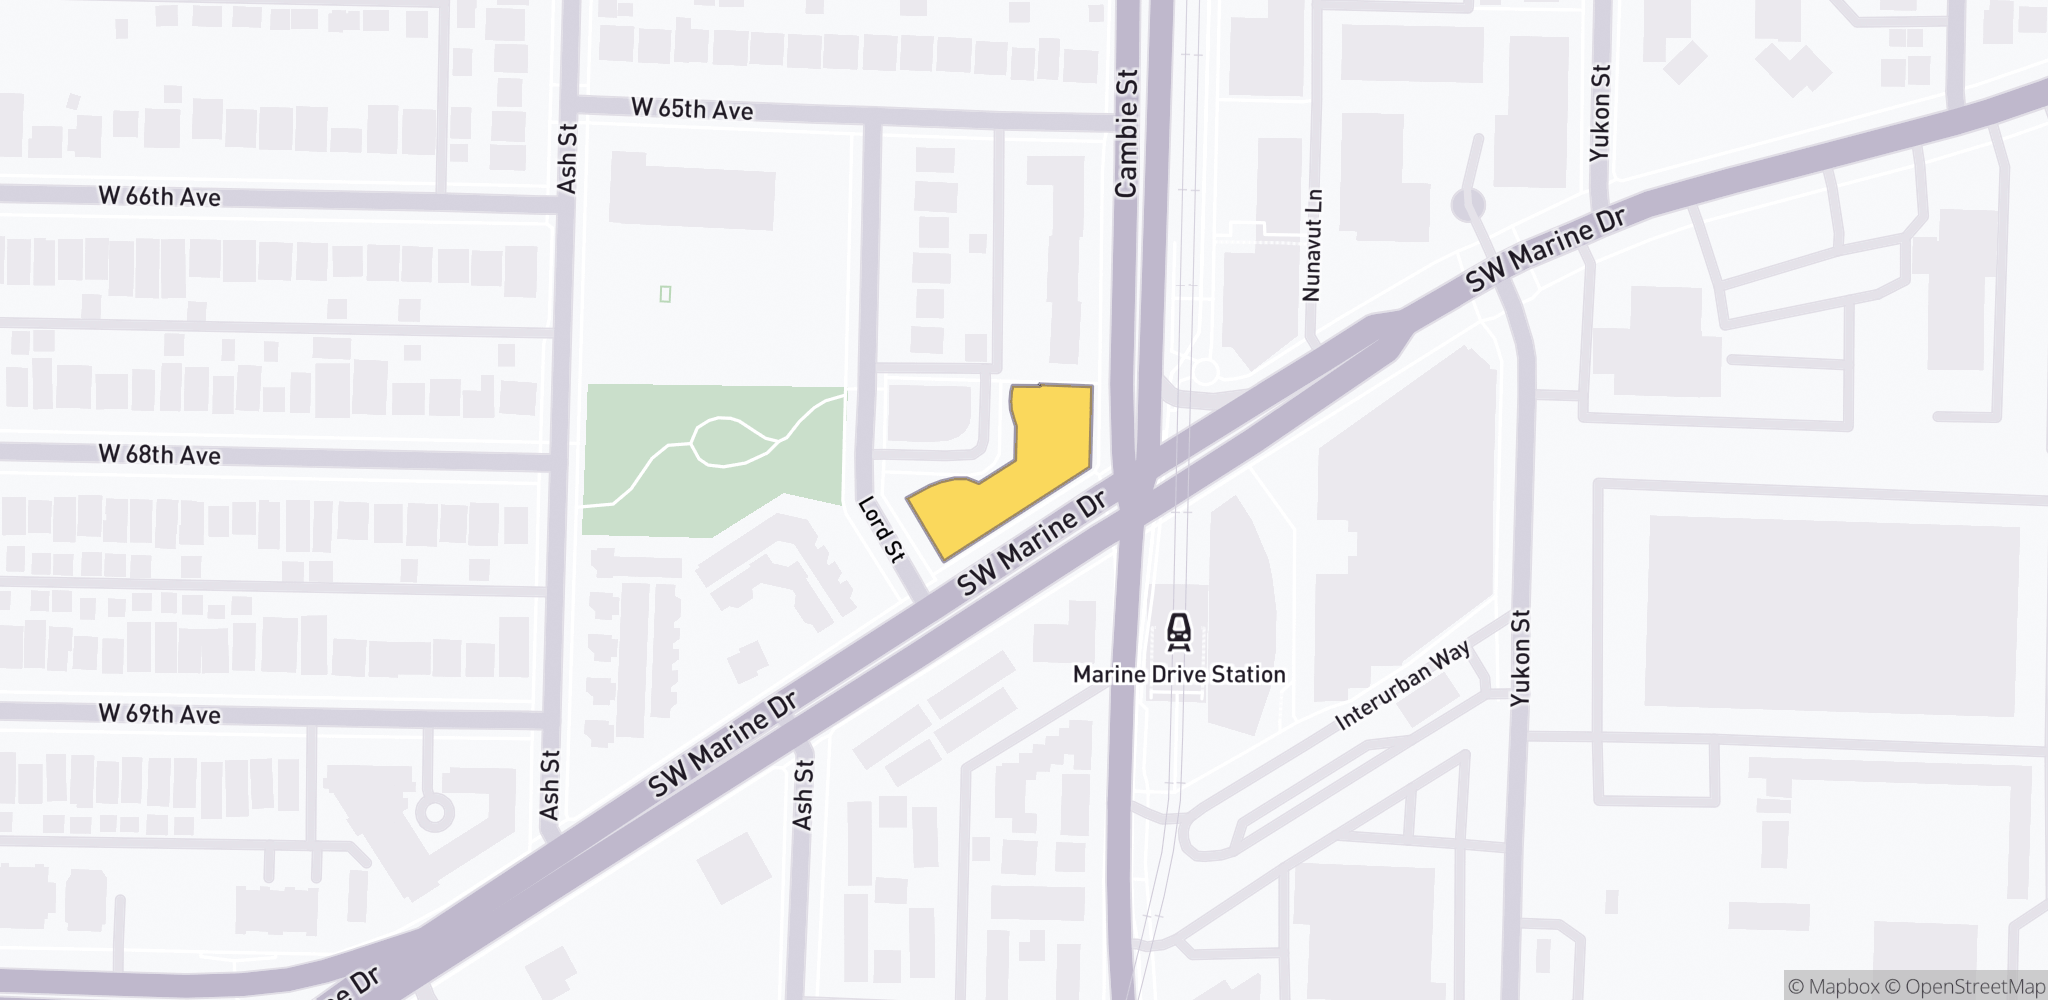
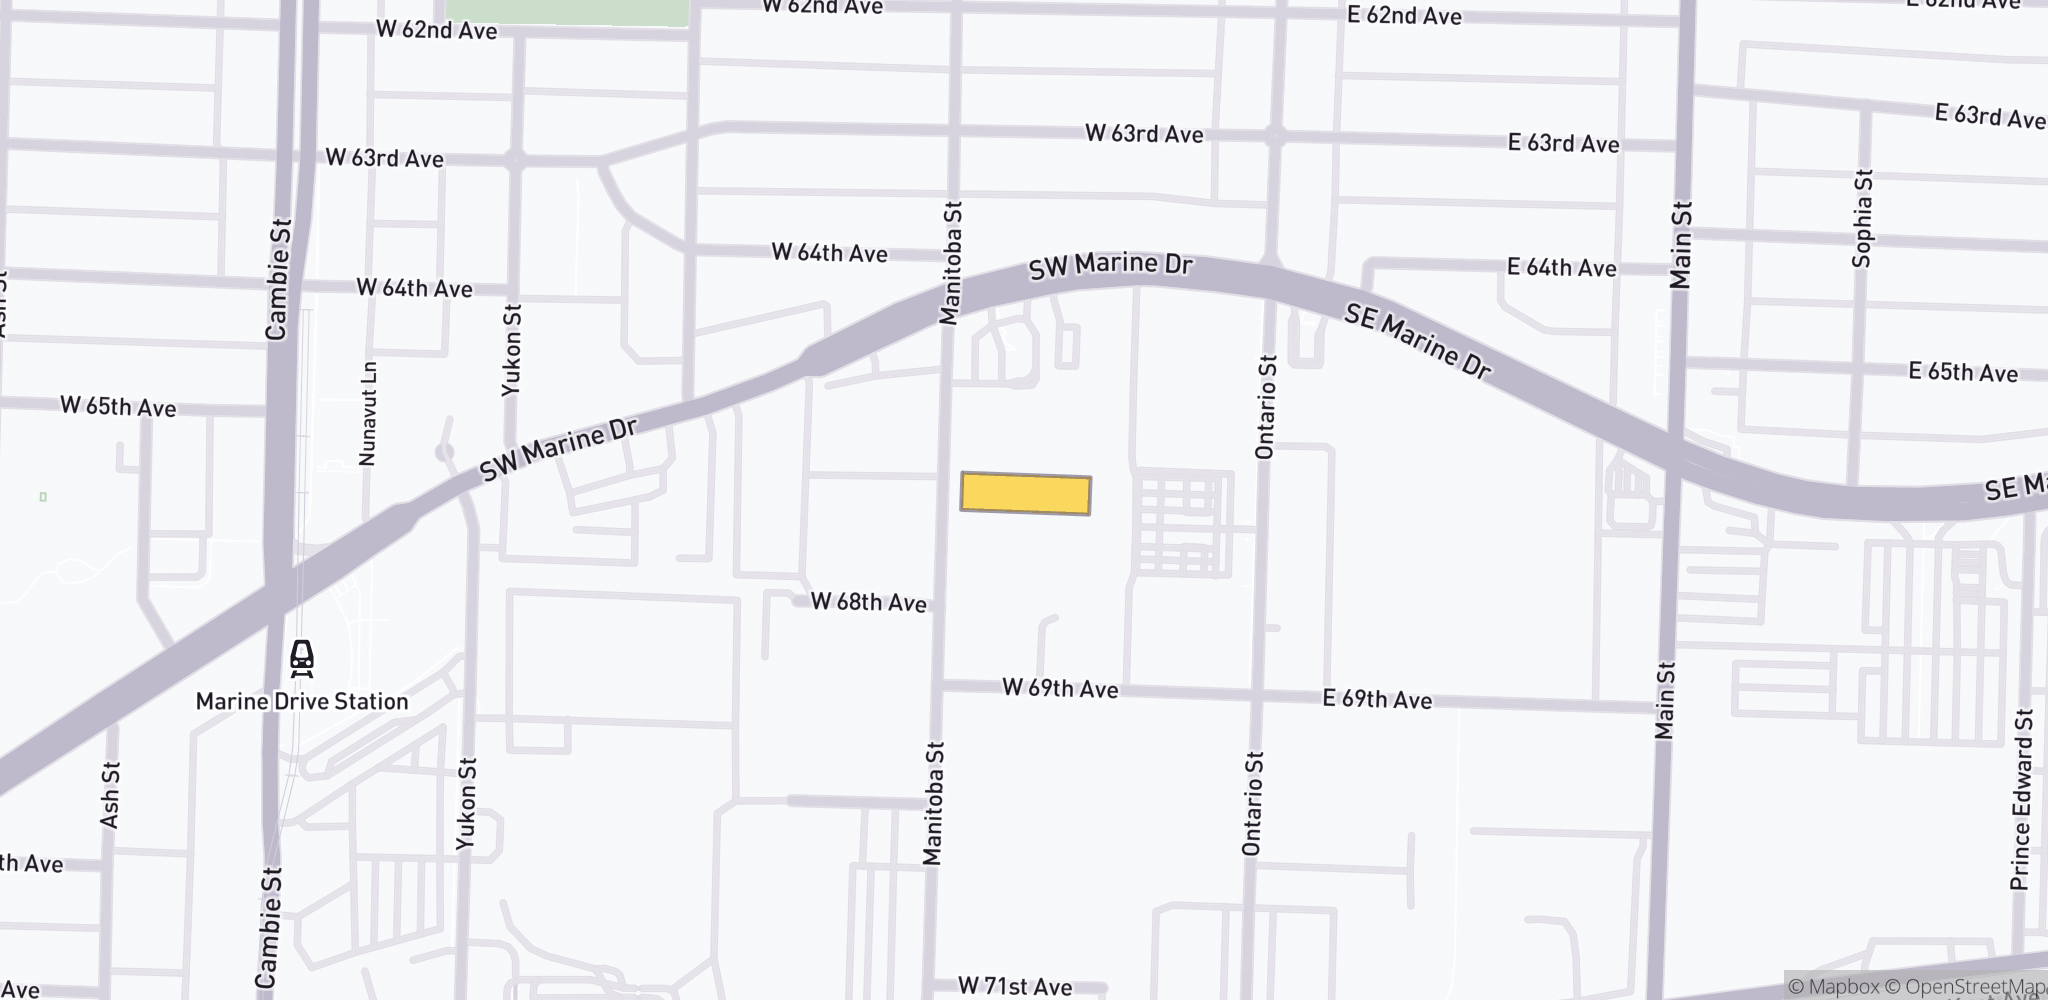
Update address
Not yet updated:

- Parking info
- Building photo

diff --git a/layouts/partials/map.html b/layouts/partials/map.html
@@ -19,7 +19,7 @@
       {{- $webp2x := $png2x.Process "webp" -}}
       <source type="image/webp" srcset="{{ $webp1x.RelPermalink }} {{ $webp1x.Width }}w, {{ $webp2x.RelPermalink }} {{ $webp2x.Width }}w" width="{{ $webp1x.Width }}" height="{{ $webp1x.Height }}">
       <source type="image/png" srcset="{{ $png1x.RelPermalink }} {{ $png1x.Width }}w, {{ $png2x.RelPermalink }} {{ $png2x.Width }}w" width="{{ $png1x.Width }}" height="{{ $png1x.Height }}">
-      <img src="{{ $png1x.RelPermalink }}" width="{{ $png1x.Width }}" height="{{ $png1x.Height }}" class="width:100% height:100%" alt="Map of South Vancouver, centred on Marine Landing Notary Public's location at the northwest corner of the intersection of SW Marine Drive and Cambie Street.">
+      <img src="{{ $png1x.RelPermalink }}" width="{{ $png1x.Width }}" height="{{ $png1x.Height }}" class="width:100% height:100%" alt="Map of South Vancouver, centred on Marine Landing Notary Public's location on Manitoba Street just south of SW Marine Drive.">
     </picture>
     <div class="map-pin">
       <div class="map-pin__bubble">

diff --git a/layouts/_default/location.html b/layouts/_default/location.html
@@ -32,7 +32,7 @@
               {{ $i1120.RelPermalink }} {{ $i1120.Width }}w,
             "
           >
-          <figcaption>Our premises are in the “Northwest” building, at the corner of SW Marine Drive and Cambie Street.</figcaption>
+          <figcaption>Our premises are in the Marine Landing B building, on Manitoba Street just south of SW Marine Drive.</figcaption>
         </figure>
       {{ end }}
     </div>

diff --git a/content/location.md b/content/location.md
@@ -1,8 +1,8 @@
 +++
 layout = "location"
 title = "Our location"
-description = "We are easily accessible via car, bus, and train, at 509 SW Marine Drive, Vancouver, at the intersection of Cambie Street and Southwest Marine Drive."
-headline = "Located in South Vancouver, we are situated at the intersection of Cambie Street and Southwest Marine Drive — easily accessible to the surrounding communities in Vancouver and Richmond."
+description = "We are easily accessible via car, bus, and train, at unit 590 of 8250 Manitoba Street, Vancouver, just south of Southwest Marine Drive."
+headline = "Located in South Vancouver, we are situated on Manitoba Street just south of Southwest Marine Drive — easily accessible to the surrounding communities in Vancouver and Richmond."
 service_text = "As a full-service notary public practice, we offer comprehensive notary services for real estate transactions, personal estate planning, and general notarization needs. Whether you need help with property transfers, wills, powers of attorney, or other legal documents, our experienced team is here to support all your notary requirements."
 about_text = "We strive to serve all our customers in the highest regard. We want customers to leave with confidence that their documents and plans are cared for, delivering the highest quality of service to our community."
 weight = 40

diff --git a/content/_index.md b/content/_index.md
@@ -2,7 +2,7 @@
 hero_title = "Marine Landing Notary Public exists to provide the community with access to affordable legal services rooted in trust, quality of work, and personable service."
 quote = "Here at Marine Landing Notary Public, we pride ourselves on providing the community with access to legal services which result in long-lasting relationships with our clients. We want all our clients to be satisfied with our work and to leave with the confidence that their legal needs and plans have been cared for and delivered at the highest quality."
 service_text = "As a full-service notary public practice, we offer comprehensive notary services for real estate transactions, personal estate planning, and general notarization needs. Whether you need help with property transfers, wills, powers of attorney, or other legal documents, our experienced team is here to support all your notary requirements."
-location_text = "Conveniently located in the South Vancouver neighbourhood at Cambie Street and SW Marine Drive, our office is easily accessible from Vancouver, Richmond, and surrounding areas."
+location_text = "Conveniently located in the South Vancouver neighbourhood on Manitoba Street just south of SW Marine Drive, our office is easily accessible from Vancouver, Richmond, and surrounding areas."
 weight = 10
 [menus]
   [menus.main]
